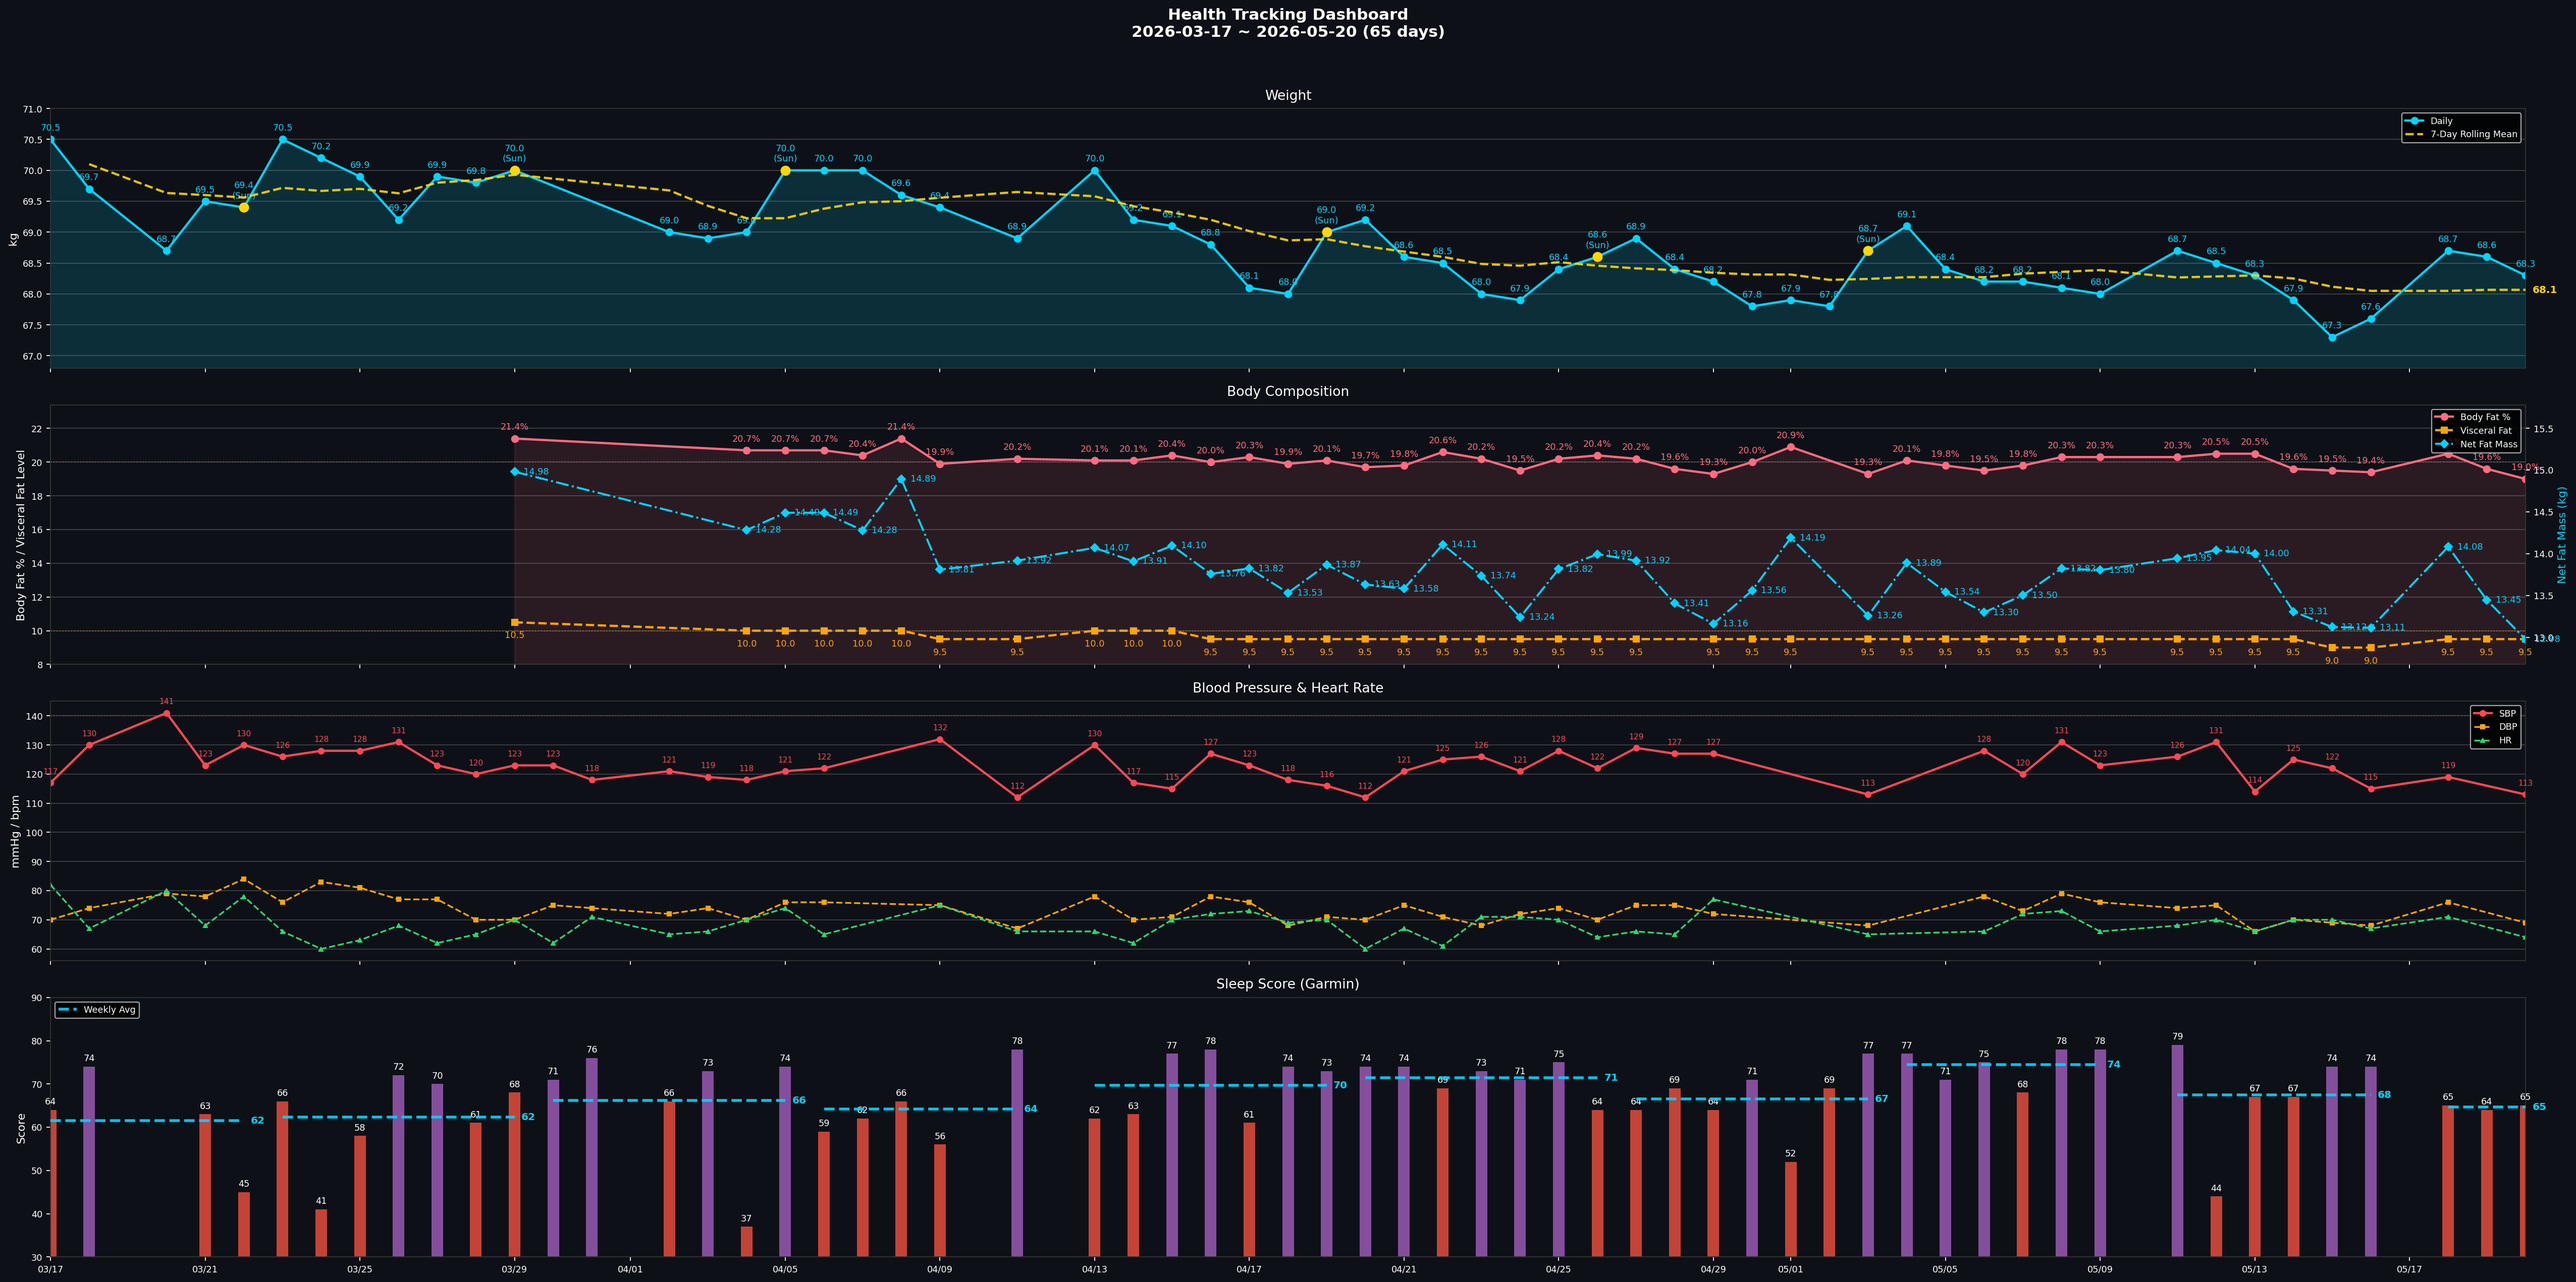
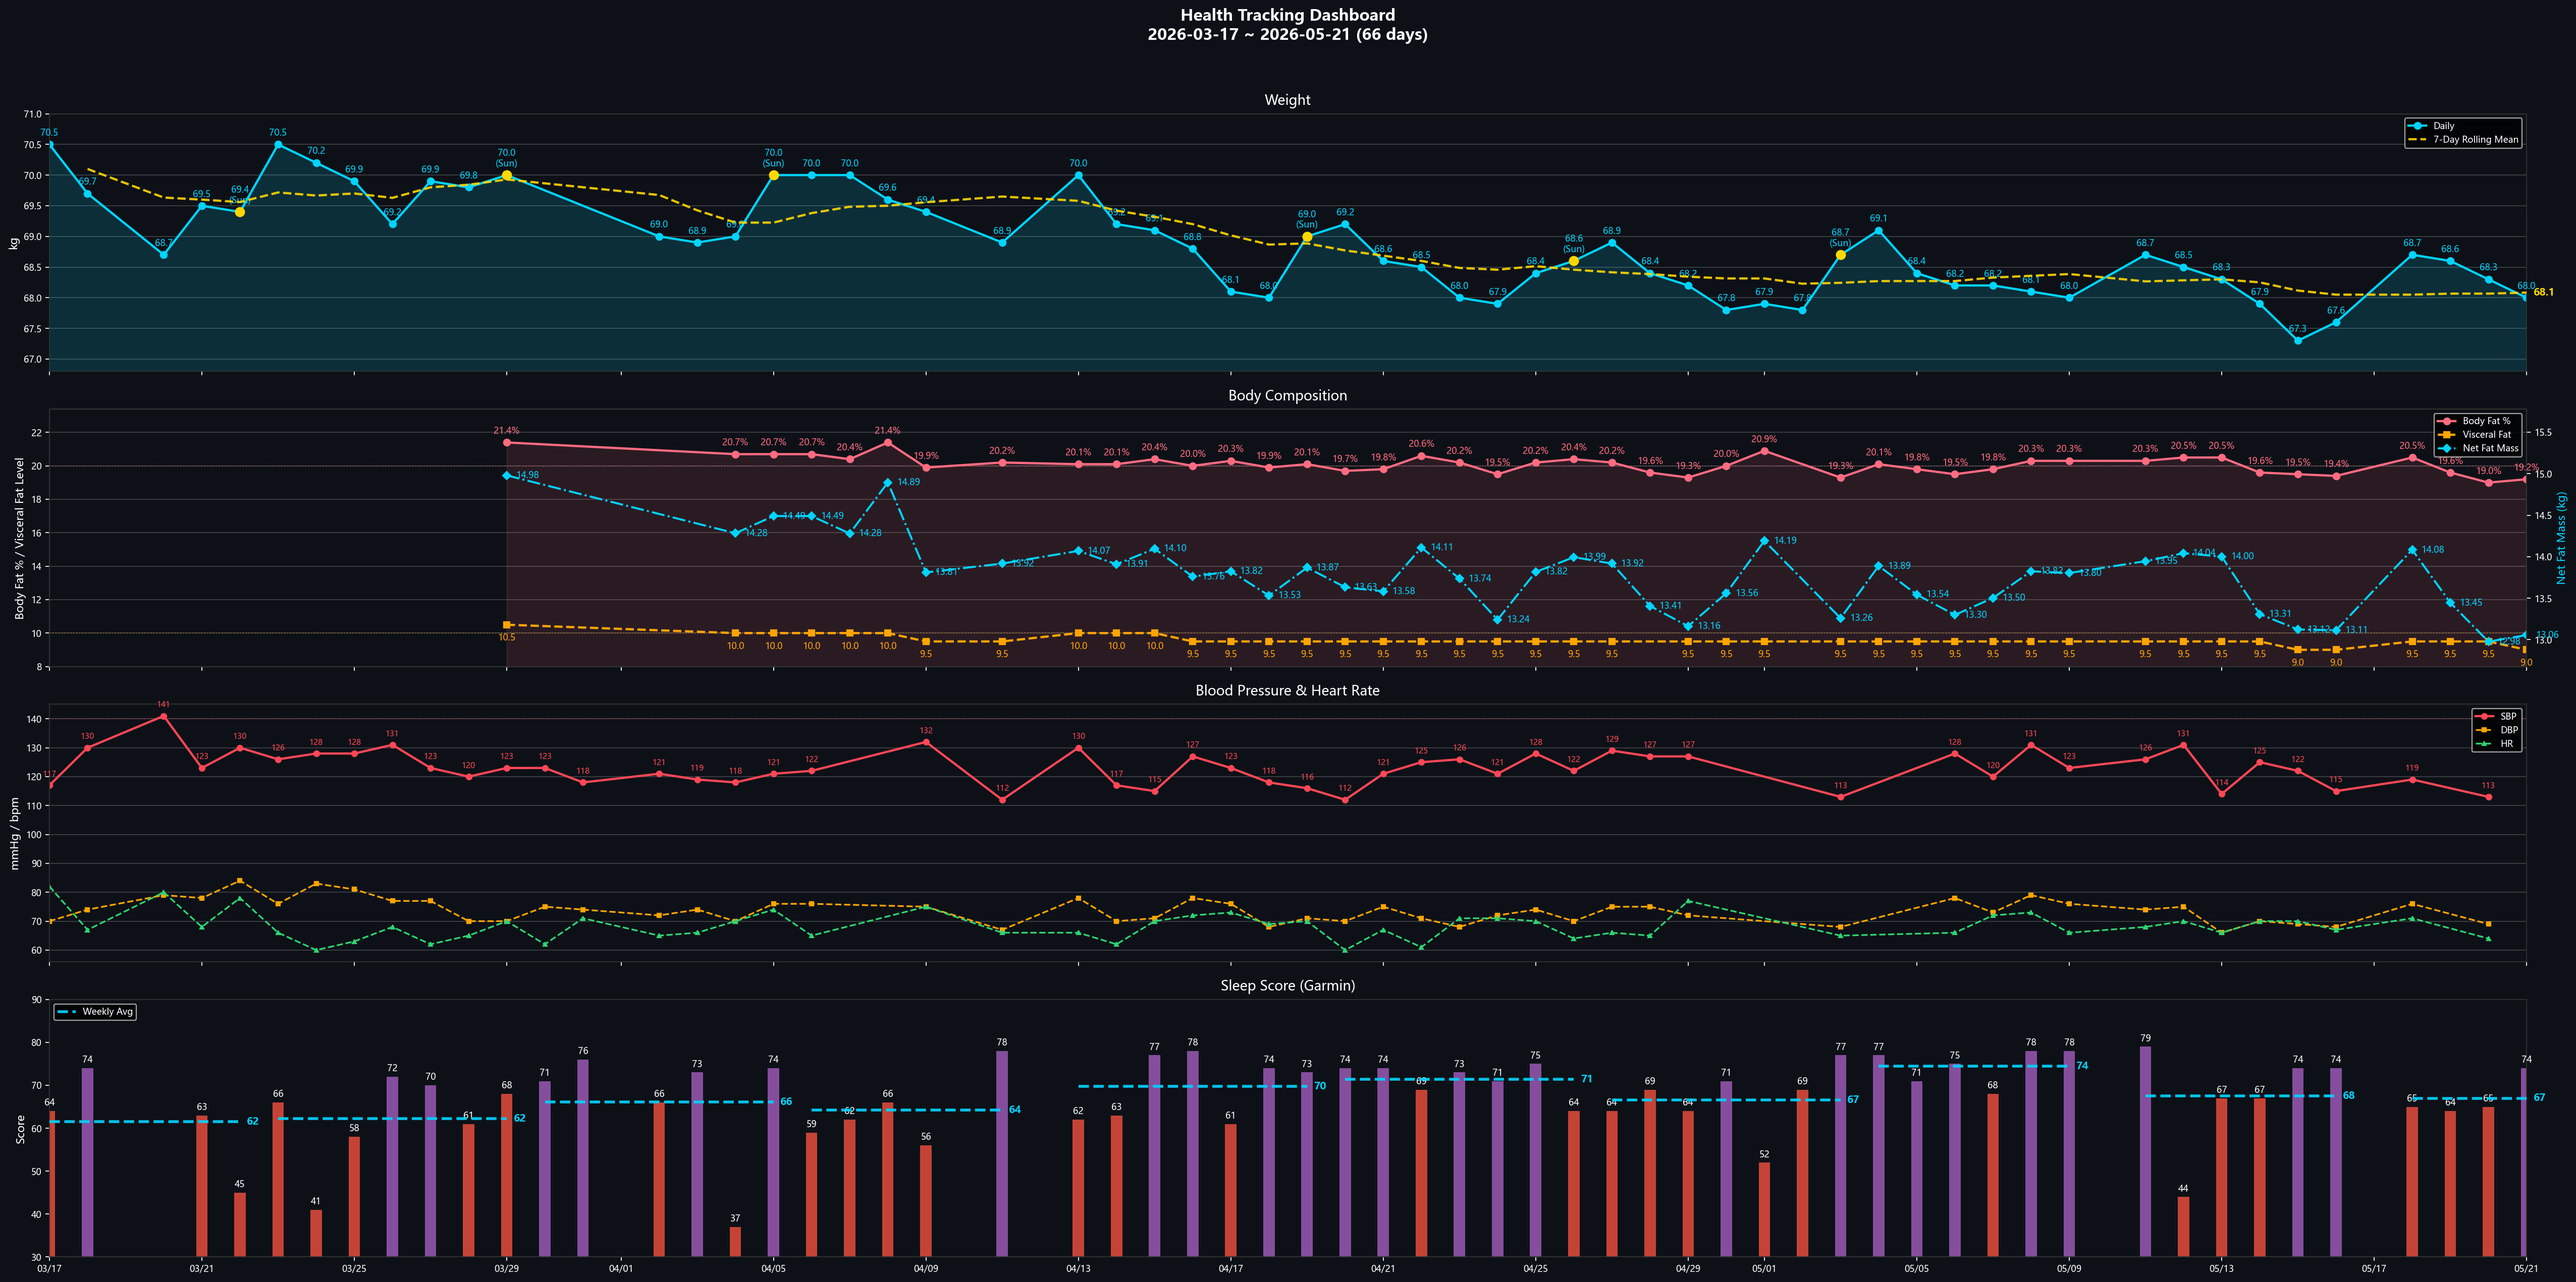
daily 2026-05-21: SpO2 急速惡化 (T90 7.4%, 30-min event)，網球 D1
- 體重 68.0kg / BF 19.2% / 內脂 9.0
- BP NA (今晨未測)
- 睡眠 6h33m / Score 74 / BB 61 / 主觀恢復感 2
- SpO2 nadir 83% / T90 7.4% (×1.76) / 最長 desat 30 min (×3.75)
- 階段分層: Light-dominant (Light 83/10% vs REM 94/0%)
- 昨日飲水 2.0L (Garmin Connect 已回寫)
- 啟動 5/21-5/25 凍結期 D1，PSG 預約硬性目標

diff --git a/data.js b/data.js
@@ -14,8 +14,8 @@ window.HC_DATA = {
     lede:    { en: "Sleep, BP, lipids, uric acid — one shared metabolic root. Lifestyle stacks first; medication only after lifestyle plateaus.",
                zh: "睡眠、血壓、血脂、尿酸——共享同一個代謝根源。生活方式介入優先，等到效果平台期再考慮藥物。" },
     progressLbl: { en: "Weight progress · 70 → 65 kg", zh: "體重進度 · 70 → 65 公斤" },
-    progressMeta: { en: "Day 65 · 67.6 kg · Sat official (5/16)", zh: "第 65 天 · 67.6 公斤 · 週六正式（5/16）" },
-    startDate: { en: "Start date · Mar 17, 2026 · Last sync 5/20", zh: "起始日期 · 2026 年 3 月 17 日 · 最後同步 5/20" },
+    progressMeta: { en: "Day 66 · 67.6 kg · Sat official (5/16)", zh: "第 66 天 · 67.6 公斤 · 週六正式（5/16）" },
+    startDate: { en: "Start date · Mar 17, 2026 · Last sync 5/21", zh: "起始日期 · 2026 年 3 月 17 日 · 最後同步 5/21" },
     startWeight: 70,
     targetWeight: 65,
     currentWeight: 67.6,
@@ -50,7 +50,7 @@ window.HC_DATA = {
     },
     {
       sys: "sleep", name: { en: "Sleep Score", zh: "睡眠分數" },
-      val: "65", unit: "Garmin",
+      val: "74", unit: "Garmin",
       delta: { en: "5/4 · OSA flag: T90 18.4% (severe)", zh: "5/4 · OSA 紅旗：T90 18.4%（重度）" },
       cadence: { en: "Daily · Garmin", zh: "每日 · Garmin" },
       status: "warn",
@@ -851,14 +851,14 @@ window.HC_DATA = {
   tracker: {
     // [SBP, DBP] — gaps filled with prior reading
     bp: [
-      [128,78], [128,78], [120,73], [131,79], [123,76], [126,74], [131,75], [114,66], [125,70], [122,69], [115,68], [119,76], [119,76], [113,69],
+      [128,78], [120,73], [131,79], [123,76], [126,74], [131,75], [114,66], [125,70], [122,69], [115,68], [119,76], [119,76], [113,69], [113,69],
     ],
     // daily weight (kg)
-    weight: [68.4, 68.2, 68.2, 68.1, 68, 68.7, 68.5, 68.3, 67.9, 67.3, 67.6, 68.7, 68.6, 68.3],
+    weight: [68.2, 68.2, 68.1, 68, 68.7, 68.5, 68.3, 67.9, 67.3, 67.6, 68.7, 68.6, 68.3, 68],
     // Garmin Sleep Score
-    sleep:  [71, 75, 68, 78, 78, 79, 44, 67, 67, 74, 74, 65, 64, 65],
+    sleep:  [75, 68, 78, 78, 79, 44, 67, 67, 74, 74, 65, 64, 65, 74],
     // Body Battery waking
-    bb:     [47, 56, 47, 37, 48, 55, 36, 42, 34, 51, 63, 48, 62, 54],
+    bb:     [56, 47, 37, 48, 55, 36, 42, 34, 51, 63, 48, 62, 54, 61],
     // SpO2 nightly nadir % (last 14 days, parallel to bp/weight/sleep/bb).
     // Earlier nights null until sync_data_js.py backfills; banner only uses trailing values.
     spo2Nadir: [null, null, null, null, null, 84, 79, 87, 85, 84, 84, 86, 82, 84],

diff --git a/reviews/daily/2026-05-21.md b/reviews/daily/2026-05-21.md
@@ -1,0 +1,129 @@
+# 晨間健康紀錄 — 2026-05-21
+
+*3 分鐘。起床後立即完成。記錄，不分析。*
+
+---
+
+## 體重
+
+**今日：68.0 kg**
+**體脂率：19.2 %**
+**內臟脂肪等級：9.0**
+
+*每週六早晨為正式紀錄（排尿後、進食前；連 5 個工作日後、週末大餐前的真實低點）。其他日可選填。*
+
+---
+
+## 血壓（晨間）
+
+*起床後 1 小時內，上完廁所、進食前。坐下安靜 5 分鐘，連量兩次取第二次。*
+
+| 次數 | 收縮壓 | 舒張壓 | 心率 |
+|------|--------|--------|------|
+| 第一次 | — | — | — |
+| 第二次 | NA | NA | NA |
+
+---
+
+## 睡眠狀態
+
+**Garmin 偵測入睡：** 21:22
+**實際上床：**
+**實際起床：** 04:07
+**TST：** 6h 33m（深眠 64 分 / REM 69 分）
+**中途醒來：** 無（0 次，一覺到天亮）
+**Garmin Sleep Score：** 74 / 100
+**Garmin Body Battery 起床值：** 61
+**主觀恢復感：** 2 / 5（1=極度疲憊, 5=精力充沛）— *Score 74 + 0 次醒來下仍疲憊 → silent hypoxia 嫌疑（SpO2 nadir 83% + 30 分 event 拉低恢復）*
+**RHR：** 59 bpm｜**日均壓力：** 24
+
+### SpO2 夜間最低（7 晚趨勢）
+
+| 日期 | -6 | -5 | -4 | -3 | -2 | -1 | 今晨 |
+|------|----|----|----|----|----|----|------|
+| 日期 | 5/15 | 5/16 | 5/17 | 5/18 | 5/19 | 5/20 | 5/21 |
+| 最低 % | 83 | 84 | 86 | 87 | 83 | 84 | **83** |
+
+**今晨日均 SpO2：** 96.0%
+**< 88% 連續晚數：** 7+（連 7 晚均 < 88%；OSA 紅旗門檻：連 3 晚 < 88% → 強烈建議 PSG）
+
+**今晨 T90：** **7.4%**（紅旗門檻 > 10%；昨日 4.2% → 今日 **再翻倍 1.76×**）｜**最長 desat：** **30 分**（紅旗 > 15 分；昨日 8 分 → 今日 **3.75×**）｜**最低點：** 83%（紅旗 < 80%）
+**Desat events：** ≥5 min × 1 段（即 30 分長 event 主導；≥10 min × 0）
+
+**階段分層 nadir / <90% 比例（今晨）：**
+- Deep：89% / 2%
+- **Light：83% / 10%** ← 主導塌陷階段
+- REM：94% / 0%
+
+**Phenotype 更新（5/21）：** 由 5/20 假設的 REM/retropalatal → 今晨 **Light-dominant pattern**（Light 期 10% 時間 <90%，REM 期 0%）。Light 期主導通常指向 **NREM-positional / retroglossal-anatomical** 而非 REM-atonia 為主。30 分連續 event 屬重度（與昨日 8 分質性差距大）。**今晚是否實際穿網球 T-shirt？需確認**：若有穿仍惡化 → POSA 假設不成立 / 網球 fidelity 失敗；若未穿 → 補做網球 + 楔形評估。
+
+**SpO2 全夜圖：** reviews/daily/spo2/spo2_desat_2026-05-21.png
+**SpO2 趨勢圖：** reviews/daily/spo2/spo2_desat_trend.png
+**SpO2 7 晚 Overlay：** reviews/daily/spo2/spo2_overlay_2026-05-15_to_2026-05-21_elapsed.png
+**SpO2 × 睡眠分期 7 晚疊圖：** reviews/daily/spo2/spo2_hypnogram_7night_2026-05-21.png
+
+*Sleep Score < 65 或 Body Battery < 50 連續三天 → 重新檢視睡眠修復方案。*
+
+---
+
+## 昨日回顧
+
+**實際飲水量：** 2.0 L（目標 ≥ 2.5L；高尿酸最佳 2.8–3.0L；17:00 前完成 60-70%）— *未達標 0.5L；Garmin Connect 已自動回寫*
+**昨日步數：** 10,510（壓力日均 28）
+**昨日活動消耗：** 171 kcal 含 BMR / 145 kcal 主動（騎車 ×2 共 12 分 + 走路 7 分；活動消耗略低）
+  - 100-300 kcal 區間 → 今日維持基本活動即可
+**昨日 Na / K / Na-K ratio：** [ ] mg / [ ] mg / [ ]（無 food log）
+
+---
+
+## 身體信號
+
+*任何張力、疼痛、疲勞、異常 — 或「清」。記位置、性質、強度。*
+
+| 部位 | 性質 | 強度 (0-10) |
+|------|------|-------------|
+| 清 | — | — |
+
+---
+
+## 今日計畫速記
+
+- [ ] 飲水目標：2.5 L（建議 2.5–3.0L；錨點 09:30 ≥1.0L / 13:30 ≥2.0L / 17:00 截止 2.5L）
+- [ ] 補充品（核心，2026-05-11 v2 + 5/21 凍結期不加新項）：
+  - 早餐（06:00）：D3 2000 IU + K2 MK-7 180 mcg + L-Citrulline 4 g + 益生菌
+  - 午餐前 30 min：Psyllium 5 g + 350 mL 水
+  - 晚餐前 30 min：Psyllium 5 g + 350 mL 水
+  - 晚餐後：魚油 ×4（拆 18:30 ×2 + 19:30 ×2）
+  - 睡前（21:00）：鎂甘胺酸 400 mg + 酸櫻桃 1000-2000 mg + Glycine 3 g
+  - 茶飲：洛神花 ×2 杯（早 + 14:00 前）
+  - 食物層：南瓜籽 30 g（15:30）+ 菇蕈 100-130 g/天
+  - ⏸ 待定：NAC 600 mg × 2（待 PSG 結果）
+- [ ] 運動：通勤騎車 + 步行（Zone 2）
+- [ ] 活動度/伸展（09:30 + 20:30 兩次錨點）
+- [ ] Wind-down（20:00 燈光降 + 螢幕濾鏡，液體截止）
+- [ ] 睡前 12 分鐘床上 routine（Child's Pose → 抱胸扭轉 → 膕繩肌 → PMR → 4-7-8）
+- [ ] 上床 21:30 / 熄燈 22:00（TST 目標 7h+）
+- [ ] **網球 T-shirt 第 2 晚（POSA Level 2）** — 確認反穿背口袋 2 顆網球緊貼脊柱
+- [ ] **PSG 預約硬性目標**：本週敲定，不再以居家介入延後
+
+---
+
+### 5 天凍結期觀察日誌（5/21-5/25）
+
+| 日期 | nadir | T90 | 最長 event | 網球 | Light/REM nadir | 主觀恢復感 |
+|------|-------|-----|-----------|------|-----------------|-----------|
+| 5/21（D1） | 83% | **7.4%** | **30 min** | ? 待確認 | 83 / 94 | 2 ⚠ |
+| 5/22 | | | | | | |
+| 5/23 | | | | | | |
+| 5/24 | | | | | | |
+| 5/25 結算 | | | | | | |
+
+**5/25 判讀規則**：T90 < 5% + nadir ≥ 88% → POSA 主導；nadir 仍 83-85% → REM-related / structural，PSG 必做（已預約則直接執行）。
+
+---
+
+💡 PT 建議：🚨 **SpO2 急速惡化警報** — 5/20 → 5/21 T90 4.2% → **7.4%（×1.76）**、最長 event 8 min → **30 min（×3.75）**、nadir 84% → 83%。30 分連續 desat 屬 PSG 等級重度事件，**等同昨晚有半小時持續低於 90% 飽和**。階段分層顯示 **Light 期主導**（Light 10% 時間 <90% vs REM 0%），phenotype 從 5/20 推測的 REM/retropalatal 轉為 NREM-positional。Sleep Score 74 + BB 61 + 0 次醒來看似正常，但主觀恢復感 2 暴露 silent hypoxia：自律神經未感知 awakening，但氧合長時間在 83-89% → 次日疲憊。**今日三件事**：(1) **確認昨晚網球 T-shirt 是否實際穿著且翻身時仍緊貼脊柱**（這是 5/21 凍結期 D1 關鍵變因；若沒穿，今晚補做為 D1 重算）；(2) **PSG 預約今日打電話敲定，不過夜**（30 min event 已不適合再單靠居家介入）；(3) 今日避免新介入（凍結期紀律）+ 飲水補滿 2.5L（昨日 2.0L 未達標）。血壓今日 NA → 明晨補測（連 3 天無 BP 數據會中斷高血壓追蹤）。體重 68.0 ↓ 0.3kg / 體脂 19.2 ↑ 0.2%（單日波動，週六正式記錄為準）。
+
+---
+
+*Filed: reviews/daily/2026-05-21.md*

diff --git a/reviews/weekly/2026-W21.md b/reviews/weekly/2026-W21.md
@@ -31,9 +31,9 @@
 
 |  | 一 | 二 | 三 | 四 | 五 | 六 | 日 |
 |--|----|----|----|----|----|----|-----|
-| 體重 (kg) | 68.7 | 68.6 | 68.3 | | | | |
-| 體脂率 (%) | 20.5 | 19.6 | 19.0 | | | | |
-| 內臟脂肪 | 9.5 | 9.5 | 9.5 | | | | |
+| 體重 (kg) | 68.7 | 68.6 | 68.3 | 68.0 | | | |
+| 體脂率 (%) | 20.5 | 19.6 | 19.0 | 19.2 | | | |
+| 內臟脂肪 | 9.5 | 9.5 | 9.5 | 9.0 | | | |
 
 **本週正式讀數（週六早晨）：** _____ kg｜體脂率：_____%｜內臟脂肪：_____
 **上週正式讀數（週六早晨）：** _____ kg｜體脂率：_____%｜內臟脂肪：_____
@@ -48,7 +48,7 @@
 | 5/18 (一) | 119 | 76 | 71 |
 | 5/19 (二) | — | — | — |
 | 5/20 (三) | 113 | 69 | 64 |
-| 5/21 (四) | | | |
+| 5/21 (四) | NA | NA | NA |
 | 5/22 (五) | | | |
 | 5/23 (六) | | | |
 | 5/24 (日) | | | |
@@ -66,7 +66,7 @@
 | 5/18 (一) | 21:20 | 03:24 | 無 | 65 | 48 | 3 |
 | 5/19 (二) | 22:41 | 03:42 | 0 | 64 | 62 | 3 |
 | 5/20 (三) | 21:28 | 03:49 | 無 | 65 | 54 | 3 |
-| 5/21 (四) | | | | | | |
+| 5/21 (四) | 21:22 | 04:07 | 無 | 74 | 61 | 2 |
 | 5/22 (五) | | | | | | |
 | 5/23 (六) | | | | | | |
 | 5/24 (日) | | | | | | |
@@ -99,7 +99,7 @@
 
 | 信號（部位+性質） | 出現天數 | 平均強度 | 趨勢（↑↓→） | 備註 |
 |-------------------|----------|----------|-------------|------|
-| 清 | 3 | — | — | 05-18 / 05-19 / 05-20 |
+| 清 | 4 | — | — | 05-18 / 05-19 / 05-20 / 05-21 |
 
 **反覆出現（≥ 3 天）：** 無
 
@@ -123,6 +123,8 @@
 | 日期 | 運動內容（含組數/時間） |
 |------|------------------------|
 | 05-19 (二) | walking 16.1 min + cycling 4.9 min（主動 157 kcal） |
+| 05-20 (三) | cycling 11.9 min + walking 7.4 min（主動 145 kcal） |
+| 05-21 (四) | cycling 5.7 min（主動 42 kcal） |
 
 ---
 

diff --git a/reports/daily-garmin/2026-05-20.md b/reports/daily-garmin/2026-05-20.md
@@ -11,17 +11,26 @@
 - RHR：60.0 bpm
 
 ## 壓力
-- 日均：22
+- 日均：28
 
 ## 步數
-- 總計：132
+- 總計：10,510
 
 ## SpO2
 - 日均：96.0%
 - 最低：84%
 
+## 活動
+| 時段 | 類型 | 距離 | 時長 | 平均 HR | 最大 HR | 主動 kcal | 含 BMR |
+|------|------|------|------|---------|---------|-----------|--------|
+| 08:58 | cycling | 1.04 km | 5.4 min | 134 | 150 | 48 | 55 |
+| 12:54 | walking | 0.65 km | 7.4 min | 118 | 126 | 39 | 49 |
+| 17:28 | cycling | 1.21 km | 6.5 min | 137 | 154 | 58 | 67 |
+| **小計** | 3 段 | **2.91 km** | **19.3 min** | — | — | **145** | **171** |
+
 ## 飲水
-- 實際：— （Garmin Connect 未紀錄，請於 check-in 手動輸入）
+- 實際：0.00 L
 - 目標：2.00 L
+- 運動流汗耗水：0.30 L
 
 _Source: data/garmin/2026-05-20.json (gitignored)_

diff --git a/reports/daily-garmin/2026-05-21.md b/reports/daily-garmin/2026-05-21.md
@@ -1,0 +1,33 @@
+# Garmin 每日摘要 — 2026-05-21
+
+## 睡眠
+- 就寢：21:22｜起床：04:07
+- 總時長：6h 33m
+- 深眠：64 分｜REM：69 分
+- Sleep Score：74
+- Body Battery 起床值：61
+
+## 靜息心率
+- RHR：59.0 bpm
+
+## 壓力
+- 日均：24
+
+## 步數
+- 總計：1,944
+
+## SpO2
+- 日均：96.0%
+- 最低：83%
+
+## 活動
+| 時段 | 類型 | 距離 | 時長 | 平均 HR | 最大 HR | 主動 kcal | 含 BMR |
+|------|------|------|------|---------|---------|-----------|--------|
+| 09:28 | cycling | 0.98 km | 5.7 min | 122 | 143 | 42 | 50 |
+
+## 飲水
+- 實際：0.00 L
+- 目標：2.00 L
+- 運動流汗耗水：0.09 L
+
+_Source: data/garmin/2026-05-21.json (gitignored)_
